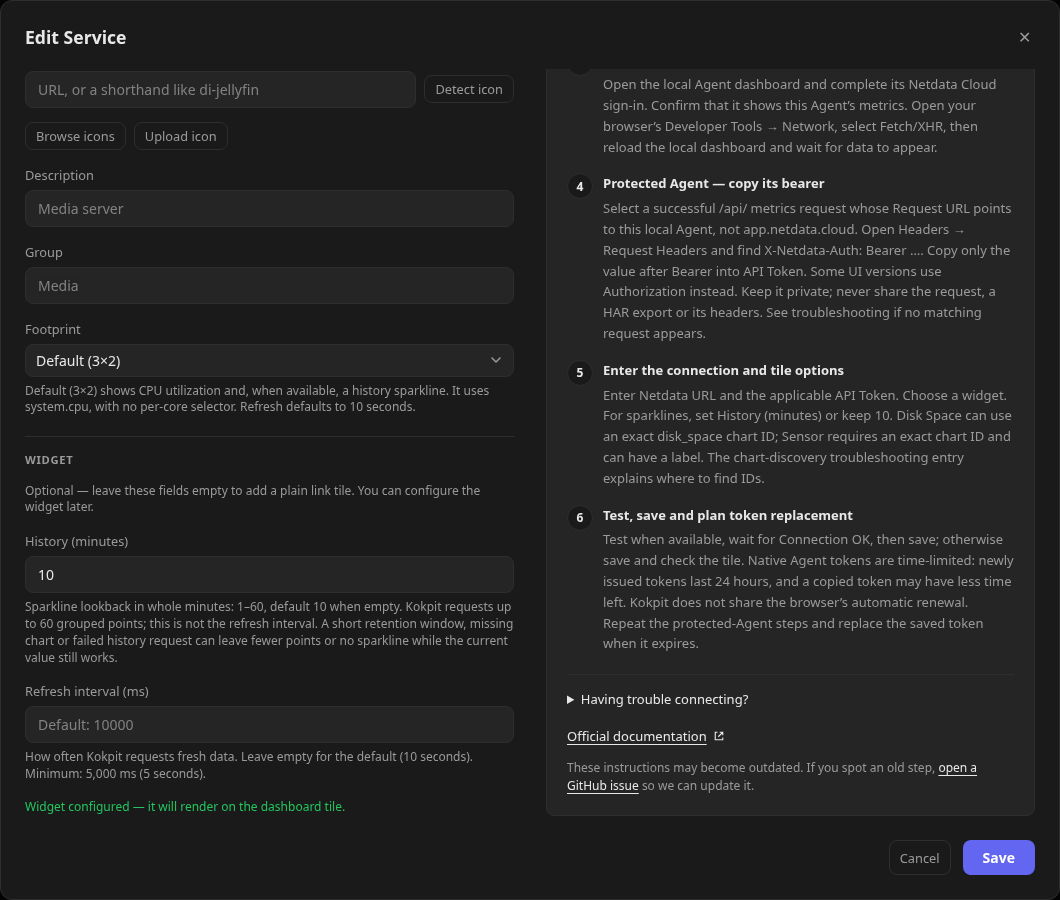
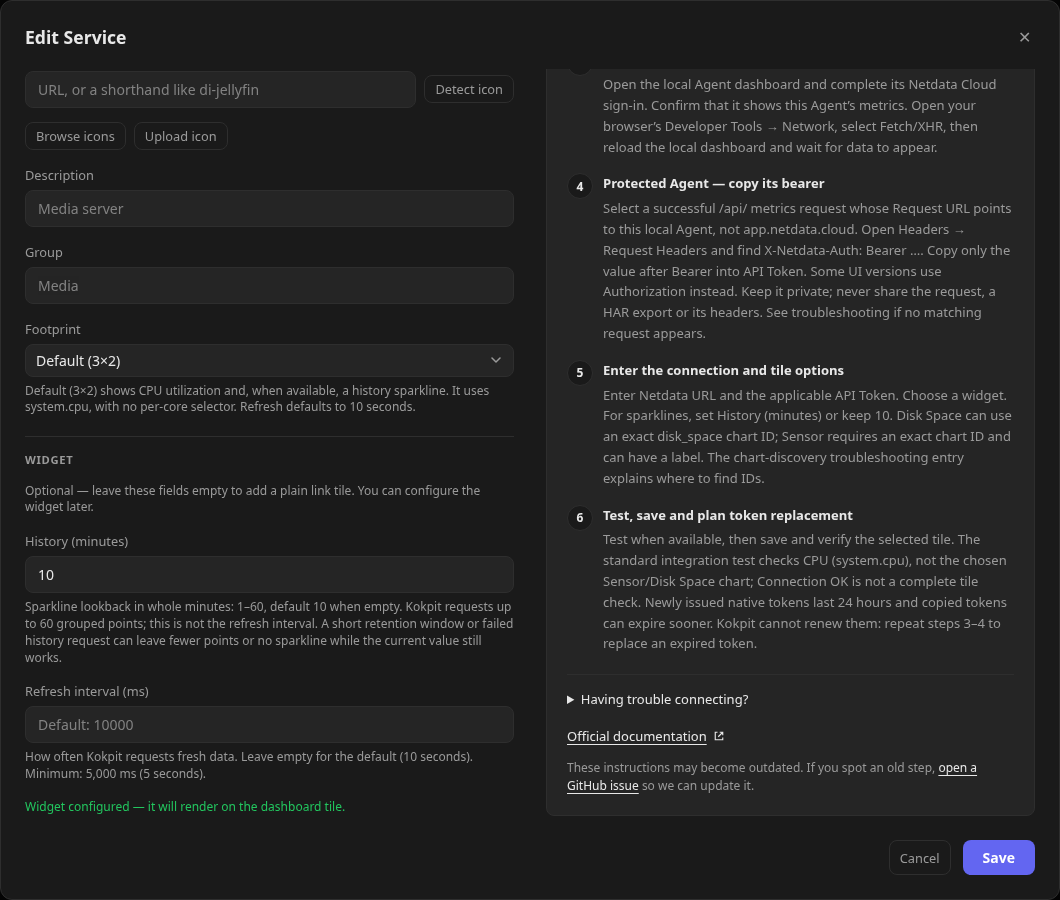
docs(netdata): clarify chart validation and discovery errors

Changed region(s): [[0.5604, 0.5911, 0.9651, 0.7467], [0.0311, 0.6844, 0.4981, 0.7467]]

diff --git a/src/integrations/netdata/setupGuide.ts b/src/integrations/netdata/setupGuide.ts
@@ -2,7 +2,7 @@ import type { WidgetSetupGuide } from "@/widgets";
 
 export const netdataUrlDescription = "Local Agent address reachable from Kokpit, usually http://192.168.1.10:19999. Keep a real proxy prefix, for example https://metrics.example.com/netdata/. Do not enter app.netdata.cloud, a dashboard page or an /api endpoint; Kokpit adds the API paths.";
 export const netdataTokenDescription = "Optional per-agent bearer, copied using the protected-Agent setup steps. Paste only its value, without Bearer. Cloud API/claim tokens, streaming keys and MCP keys do not fit this field. Leave empty for an already unauthenticated private Agent. A blank saved field keeps its token; use Clear saved credential to remove it.";
-export const netdataHistoryDescription = "Sparkline lookback in whole minutes: 1–60, default 10 when empty. Kokpit requests up to 60 grouped points; this is not the refresh interval. A short retention window, missing chart or failed history request can leave fewer points or no sparkline while the current value still works.";
+export const netdataHistoryDescription = "Sparkline lookback in whole minutes: 1–60, default 10 when empty. Kokpit requests up to 60 grouped points; this is not the refresh interval. A short retention window or failed history request can leave fewer points or no sparkline while the current value still works.";
 
 export const netdataSetupGuide: WidgetSetupGuide = {
   title: "Connect Netdata",
@@ -31,10 +31,14 @@ export const netdataSetupGuide: WidgetSetupGuide = {
     },
     {
       title: "Test, save and plan token replacement",
-      description: "Test when available, wait for Connection OK, then save; otherwise save and check the tile. Native Agent tokens are time-limited: newly issued tokens last 24 hours, and a copied token may have less time left. Kokpit does not share the browser’s automatic renewal. Repeat the protected-Agent steps and replace the saved token when it expires.",
+      description: "Test when available, then save and verify the selected tile. The standard integration test checks CPU (system.cpu), not the chosen Sensor/Disk Space chart; Connection OK is not a complete tile check. Newly issued native tokens last 24 hours and copied tokens can expire sooner. Kokpit cannot renew them: repeat steps 3–4 to replace an expired token.",
     },
   ],
   troubleshooting: [
+    {
+      title: "Connection OK but another tile fails",
+      description: "The standard Netdata integration test uses the CPU representative and requires system.cpu. It does not validate the selected Sensor/Disk Space chart or every other fixed metric. Always verify the saved tile and its exact chart even after Connection OK. If system.cpu is missing, that test can fail while another available chart still works. Legacy direct-widget forms instead test their selected widget. Missing/invalid charts and authentication failures need different fixes; inspect the selected chart before replacing credentials.",
+    },
     {
       title: "No token or the wrong kind of key",
       description: "For an already unauthenticated private Agent, no token is needed. Native protected Agents use a Cloud-issued per-agent bearer sent by Kokpit as X-Netdata-Auth: Bearer <value>. A long-lived Cloud API token authenticates Cloud requests, not this field; claim tokens, streaming API keys and local MCP keys have other roles. netdata.conf enables protection but does not contain a permanent API token to copy. The Agent token follows your Cloud role and can grant more than metric reads, although Kokpit only makes GET requests.",

diff --git a/README.md b/README.md
@@ -1613,6 +1613,8 @@ Seven composable tiles read metrics from a local [Netdata Agent](https://www.net
 5. Enter **Netdata URL**, the applicable token and the desired tile options. Sparkline history defaults to ten minutes. Disk Space optionally selects a disk-space chart; Sensor requires an exact chart ID and optionally a label. Use chart discovery below for actual IDs on that host.
 6. **Test** when available, wait for **Connection OK**, then **Save**; otherwise save and check the dashboard. Newly issued native bearer tokens have a 24-hour lifetime, and a copied/reused token can have less time left. Kokpit stores a static value and cannot inherit browser renewal: repeat the protected-Agent steps and replace it after expiry or revocation. The [token implementation](https://github.com/netdata/netdata/blob/v2.12.2/src/web/api/http_auth.c#L208-L236) can reuse an unexpired token rather than issue a fresh full lifetime.
 
+The standard Netdata integration **Test connection** uses the CPU representative and requires `system.cpu`; it does not validate a selected Sensor/Disk Space chart or every other fixed metric. **Always verify the saved tile and its chart after Connection OK.** A missing `system.cpu` can make that test fail even when another chart is available. Legacy direct-widget forms instead test their selected widget.
+
 Kokpit sends `X-Netdata-Auth: Bearer <api_token>` when a token is present. It makes only GET requests, but the token can have broader permissions inherited from the Cloud account. A reverse proxy must forward that header; this form does not supply Basic credentials, SSO cookies or arbitrary headers. Check the Agent/proxy IP rules for Kokpit’s source address. Native missing authorization can return `412`, and insufficient permissions can return `403`; expired tokens need replacement. The local web server must be enabled. Credential-bearing requests follow at most five redirects within the configured scheme/host/port; use the final address for cross-origin moves.
 
 A blank saved token input retains its saved value for an unchanged normalized URL. Root URLs with and without `/` are equivalent; a changed path, scheme, host, port or query requires re-entry. Changing tile options preserves the connection. Use **Clear saved credential** to remove a saved token when moving to an already unauthenticated path.
@@ -1712,9 +1714,12 @@ service_tiles:
 
 **Find chart IDs:** query the Agent’s `allmetrics` JSON and copy a complete key under `charts`, not its `family` or a context name. For Disk Space, choose the intended `disk_space.*` mount. For Sensor, check units such as Celsius or RPM. Sensor IDs vary by host; the YAML example is illustrative. Netdata’s older `/api/v1/charts` catalog is deprecated.
 
-For example, with Bash, curl and jq installed, replace this example URL with your Agent’s root/prefix plus the shown API path. Enter the per-agent bearer privately at the prompt, or press Enter for an already unauthenticated private Agent. The header is passed through stdin so its value is not a curl command-line argument:
+For example, with Bash, curl and jq installed, replace this example URL with your Agent’s root/prefix plus the shown API path. Enter the per-agent bearer privately at the prompt, or press Enter for an already unauthenticated private Agent. The header is passed through stdin so its value is not a curl command-line argument. A subshell with pipeline failure propagation reports failed requests and clears the temporary token on exit:
 
 ```bash
+(
+set -euo pipefail
+trap 'unset NETDATA_AGENT_BEARER' EXIT
 read -r -s -p 'Agent bearer (empty if not required): ' NETDATA_AGENT_BEARER
 printf '\n'
 {
@@ -1724,7 +1729,7 @@ printf '\n'
 } | curl --fail --silent --show-error --header @- \
     'https://metrics.example.com/netdata/api/v1/allmetrics?format=json&help=no' \
   | jq '.charts | to_entries[] | {id: .key, family: .value.family, units: .value.units}'
-unset NETDATA_AGENT_BEARER
+)
 ```
 
 The [API reference](https://learn.netdata.cloud/api) and [query reference](https://learn.netdata.cloud/docs/developer-and-contributor-corner/rest-api/queries) document the legacy metrics endpoints and lookback/grouping behavior. This guide covers Kokpit’s current Agent integration; it does not migrate it to the Cloud or v3 API.

diff --git a/docs/integration-setup-guidance-proposal.md b/docs/integration-setup-guidance-proposal.md
@@ -288,4 +288,4 @@ Checked 23 October 2026 against current stable [Netdata v2.12.2](https://github.
 - **Lifecycle:** native protection requires a claimed, connected Agent and Cloud access. Newly created tokens last 24 hours; [token creation](https://github.com/netdata/netdata/blob/v2.12.2/src/web/api/http_auth.c#L208-L236) may reuse one with more than two hours left. Kokpit has no mint/renewal flow, so copied tokens require manual replacement. Already unauthenticated private Agents need no Cloud account or key; help never recommends disabling authentication. README’s previous instruction to generate a token in `netdata.conf` was incorrect and is replaced. Broader token permissions, IP/proxy rules and unsupported Basic/cookie authentication are explained.
 - **Current API behavior:** verified `src/integrations/netdata/api.ts`, all seven schemas/fetchers/renderers and the shared credential/redirect helpers. Kokpit preserves proxy prefixes, calls local legacy v1 allmetrics/data, follows same-origin GET redirects only, and scopes saved secrets to the normalized URL. Current snapshots are cached nine seconds per exact URL/token pair; histories are separate and concurrent cache misses can still duplicate a fetch. README no longer promises one request regardless of how widgets start. This is guidance only; the deferred Netdata dashboard/API migration is untouched.
 - **Fields and readings:** five sparkline widgets expose whole-minute history 1–60/default 10 and request 60 grouped points. Disk Space/Load expose no history control. All footprints stay 3×2; default refresh is ten seconds, except Disk Space at sixty. CPU is 100 minus idle; RAM includes cache/buffers; Network/Disk I/O show both directions with one combined sparkline and no selectors. Load is not a percentage. Disk Space uses an exact optional chart key/default root with reserved space in the denominator. Sensor requires an exact chart key, averages finite dimensions, uses reported units and defaults its optional label from the ID suffix. No unsupported interface, disk, dimension or unit controls are described.
-- **Discovery and previews:** allmetrics supplies the exact keys Kokpit consumes; README includes an authenticated discovery command without a credential in curl’s command-line arguments. The older charts endpoint is deprecated; missing collectors/platform differences and best-effort history errors are distinguished. All seven reuse the shared stale-instructions/GitHub-issue disclaimer. Screenshots use isolated configuration and a dummy token; live Netdata connectivity has not been tested.
+- **Discovery and previews:** allmetrics supplies the exact keys Kokpit consumes; README includes an authenticated discovery command without a credential in curl’s command-line arguments, with subshell-scoped pipefail/error handling and token cleanup. The standard editor tests the CPU integration representative; guide/README distinguish that result from validation of a selected Sensor/Disk Space chart and require checking the saved tile. Legacy direct-widget forms test their selected widget. The older charts endpoint is deprecated; missing collectors/platform differences and best-effort history errors are distinguished. All seven reuse the shared stale-instructions/GitHub-issue disclaimer. Screenshots use isolated configuration and a dummy token; live Netdata connectivity has not been tested.
